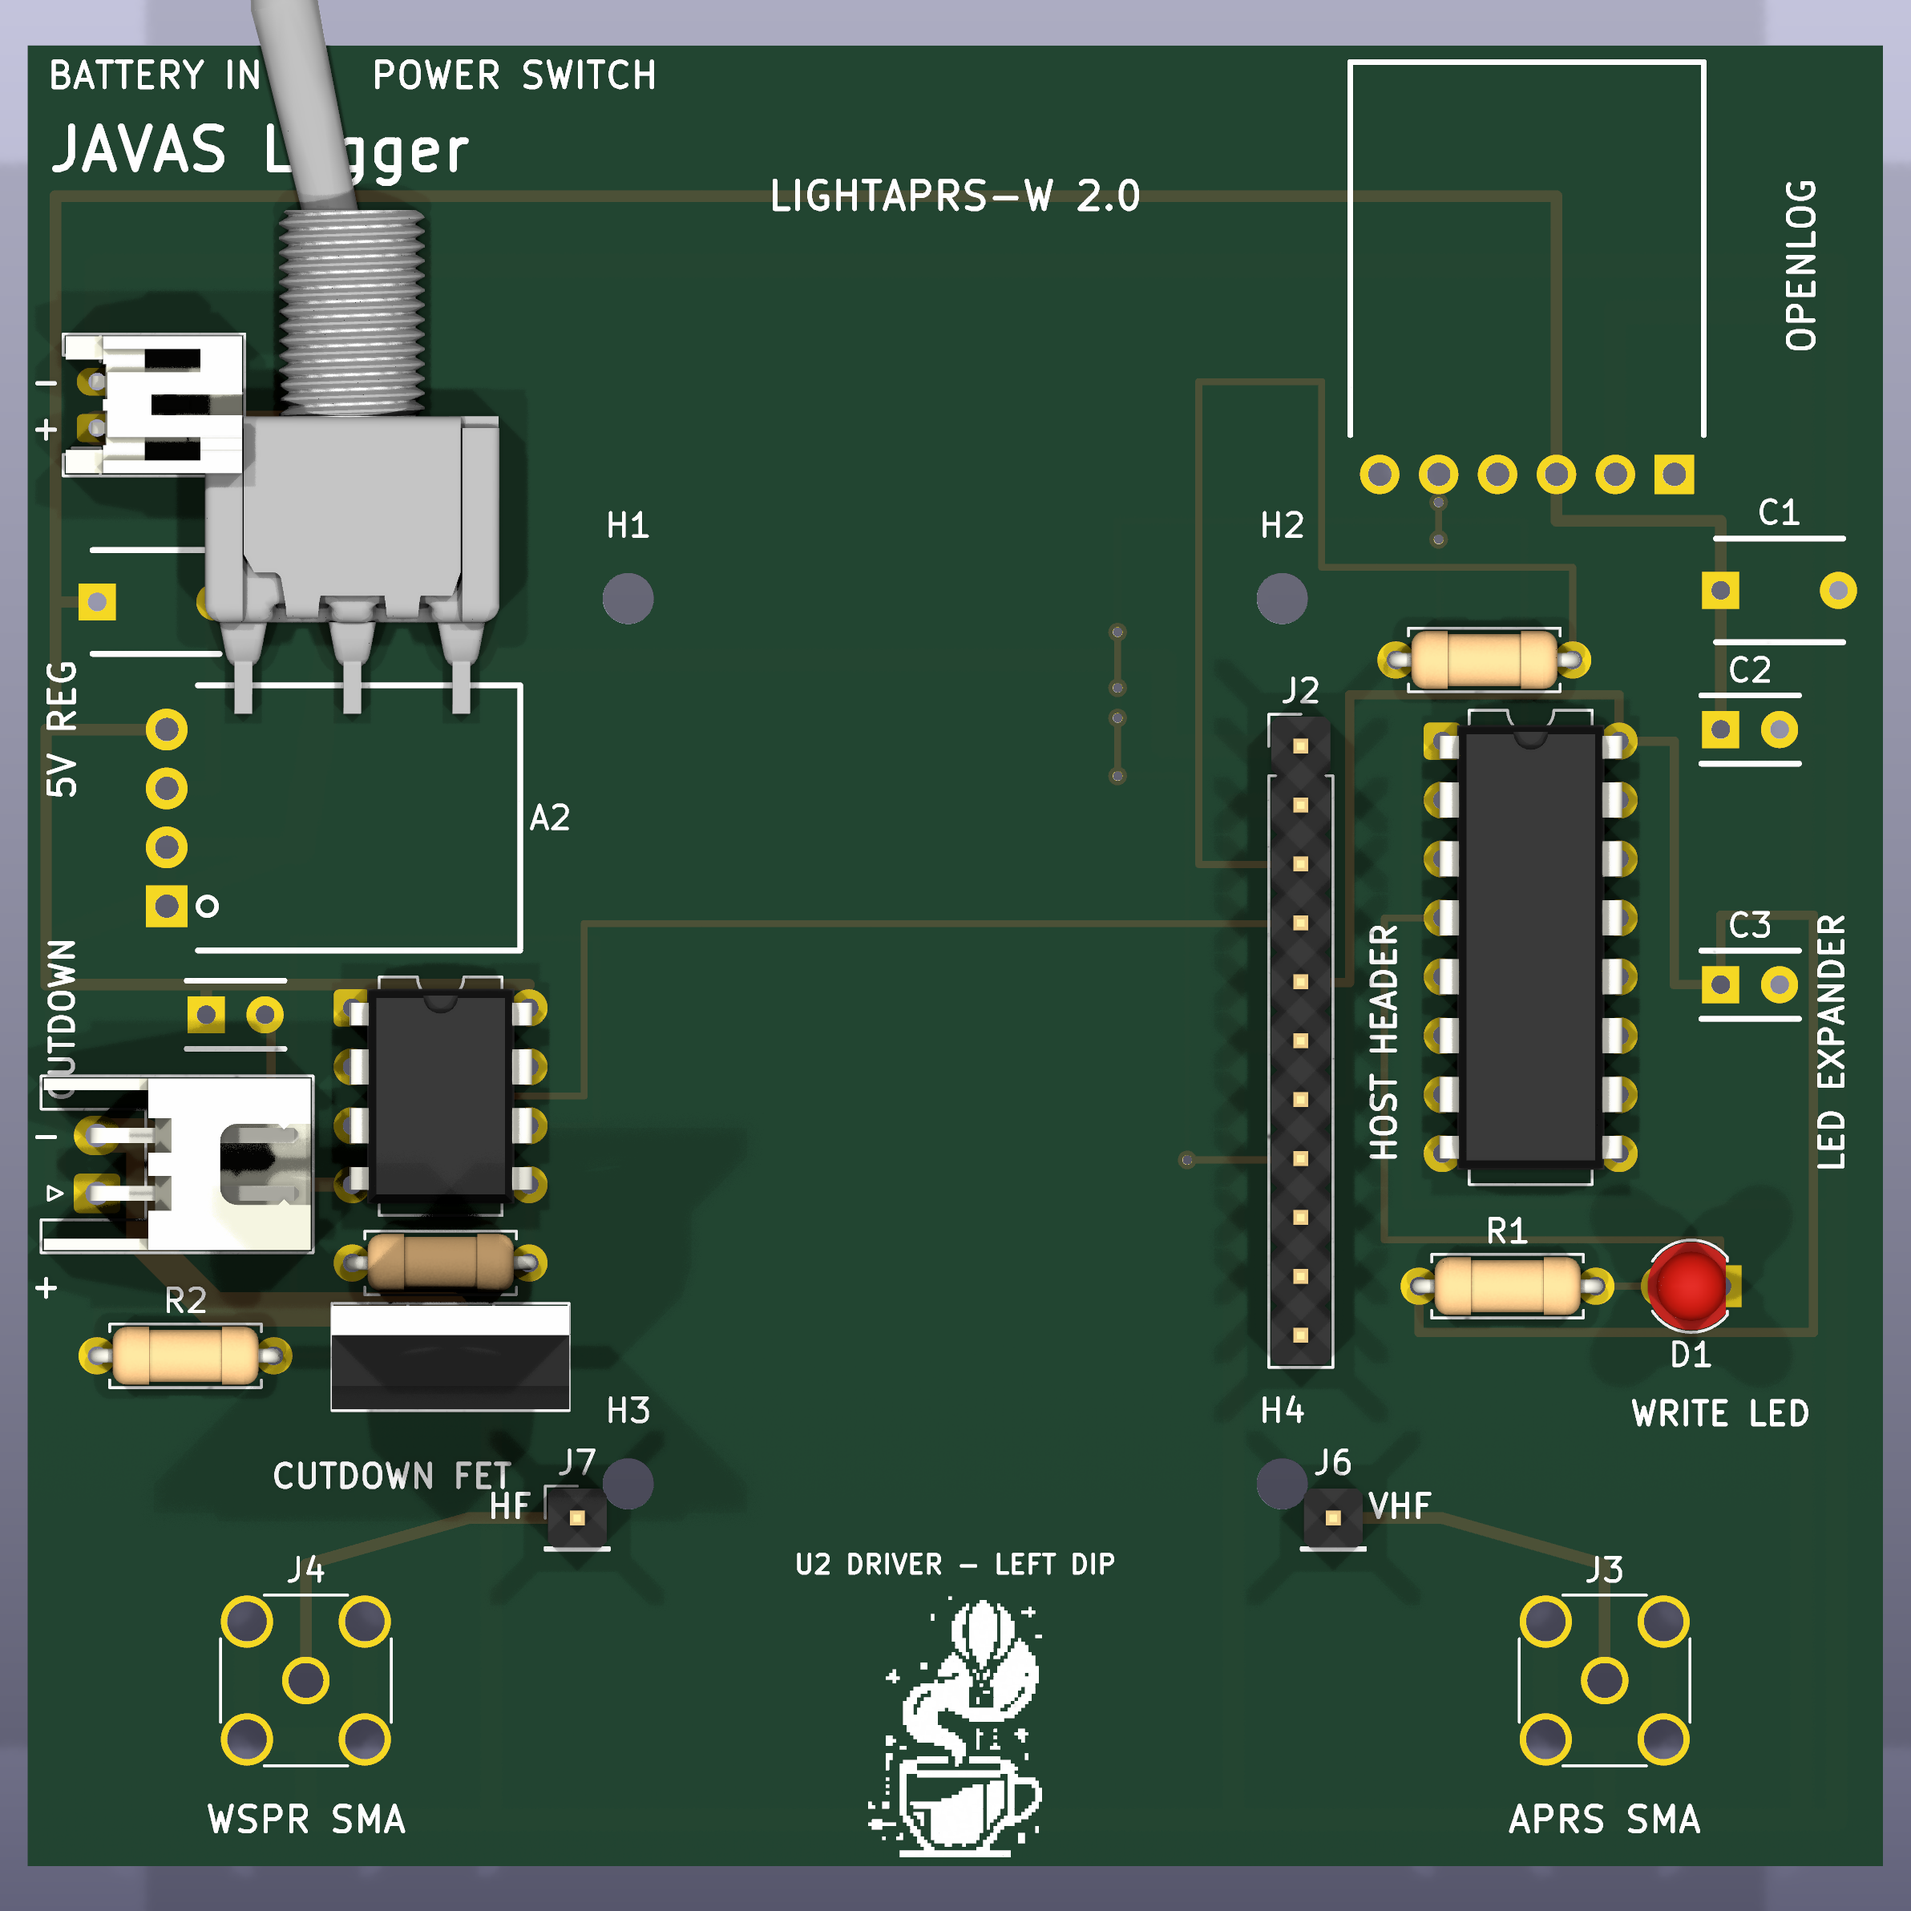
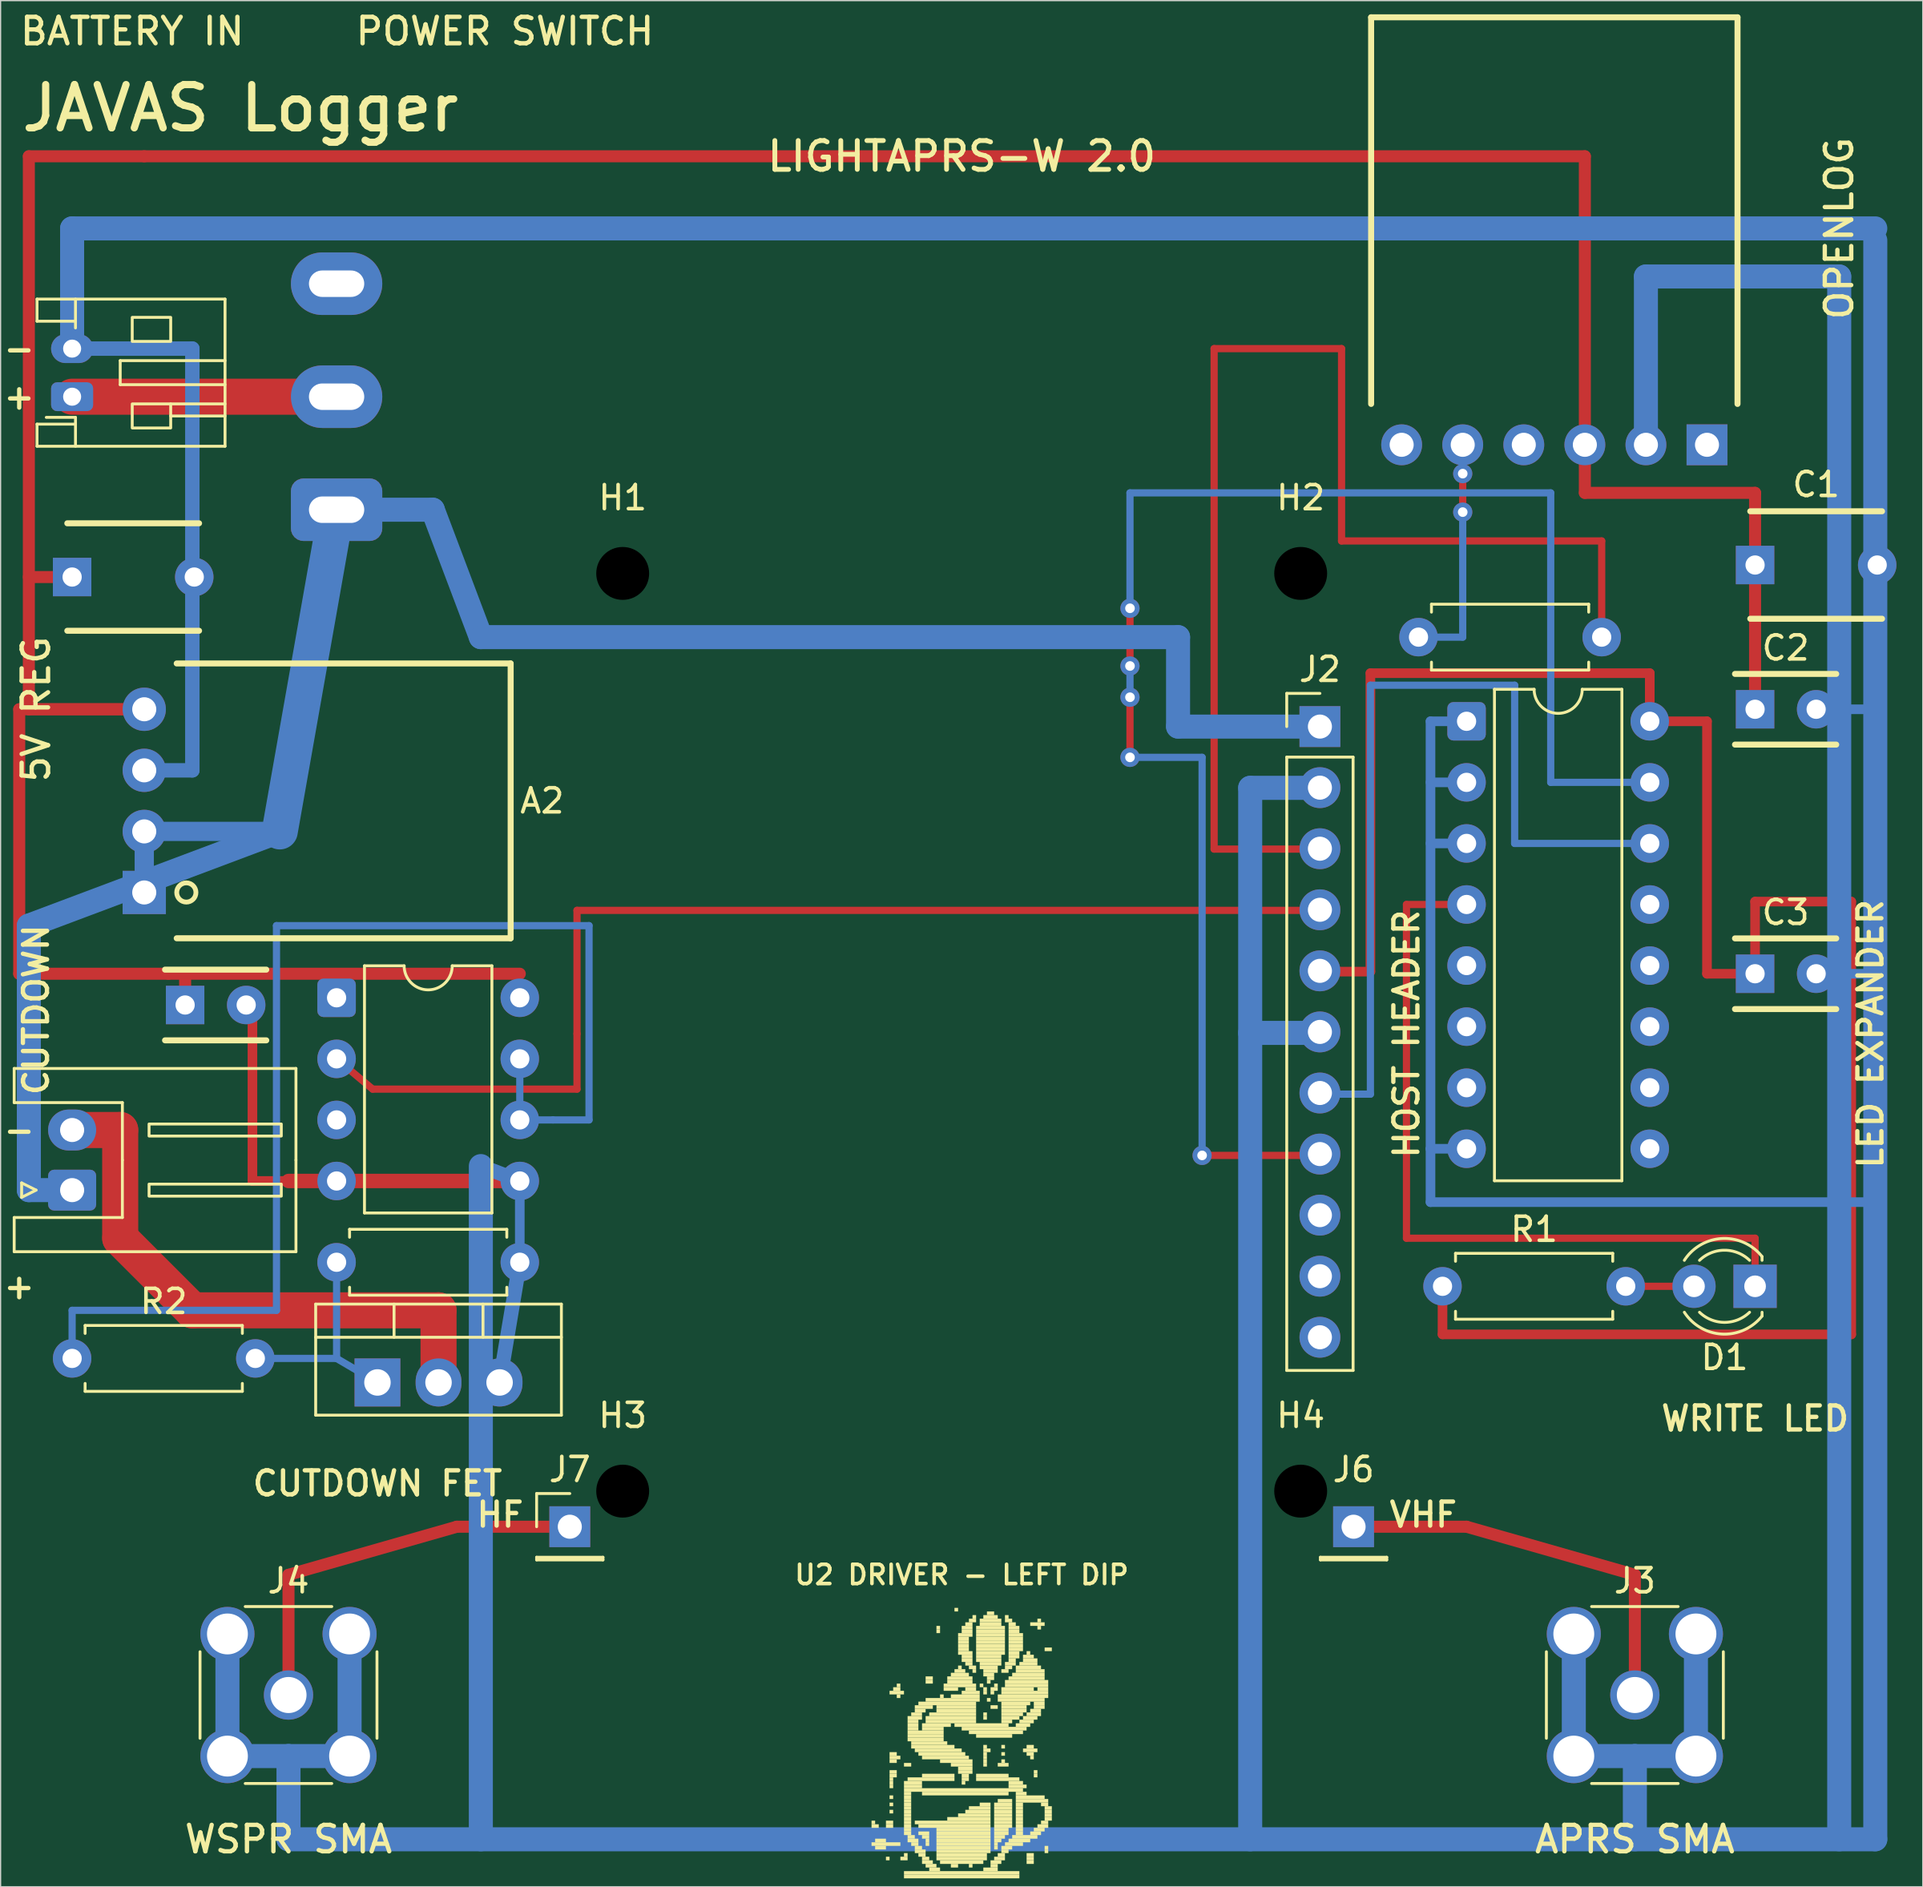
fix(outputs): use flat green board render

diff --git a/scripts/export_green_render.py b/scripts/export_green_render.py
@@ -1,0 +1,38 @@
+"""Rasterize the tracked 2D board plot over a green PCB background."""
+
+from __future__ import annotations
+
+from pathlib import Path
+
+import cairosvg
+
+
+ROOT = Path(__file__).resolve().parents[1]
+SOURCE = ROOT / "outputs" / "renders" / "board-full-color.svg"
+OUTPUT = ROOT / "outputs" / "renders" / "board-green-top.png"
+BOARD_GREEN = "#174a34"
+
+
+def main() -> None:
+    svg = SOURCE.read_text(encoding="utf-8")
+    svg_start = svg.find("<svg")
+    opening_end = svg.find(">", svg_start)
+    if svg_start < 0 or opening_end < 0:
+        raise RuntimeError("Could not find the SVG root element")
+
+    background = (
+        f'\n<rect x="0" y="0" width="100%" height="100%" '
+        f'fill="{BOARD_GREEN}"/>\n'
+    )
+    composited = svg[: opening_end + 1] + background + svg[opening_end + 1 :]
+
+    cairosvg.svg2png(
+        bytestring=composited.encode("utf-8"),
+        write_to=str(OUTPUT),
+        output_width=2400,
+    )
+    print(f"Wrote flat green-board render to '{OUTPUT}'")
+
+
+if __name__ == "__main__":
+    main()

diff --git a/outputs/README.md b/outputs/README.md
@@ -7,9 +7,10 @@ Generated from the current Weather Balloon Logger KiCad design.
 - `board.svg` is the standard Copperhead PCB plot.
 - `renders/weather-balloon-logger.svg` is the schematic render.
 - `renders/board-full-color.svg` is a board-fitted top view showing front copper in red, back copper in blue, production front silkscreen, plated holes, and the board outline. Engineering-only User-layer notes are deliberately omitted so assembly labels remain readable.
-- `renders/board-green-top.png` is a 2400 x 2400 orthographic top render with
-  the green solder-mask board style, installed modeled parts, and white front
-  silkscreen for a high-contrast visual review.
+- `renders/board-green-top.png` is a high-resolution flat 2D board view with a
+  green PCB background, colored copper/pads, and white front silkscreen. It
+  intentionally omits 3D component models so footprints and labels remain
+  unobstructed.
 - The production front-silkscreen outputs include the 7.50 x 11.25 mm
   coffee-cup/weather-balloon `G1` artwork in the unobstructed lower-center area.
 - `renders/board-fit-check-1to1.pdf` is a black-and-white, true-scale top
